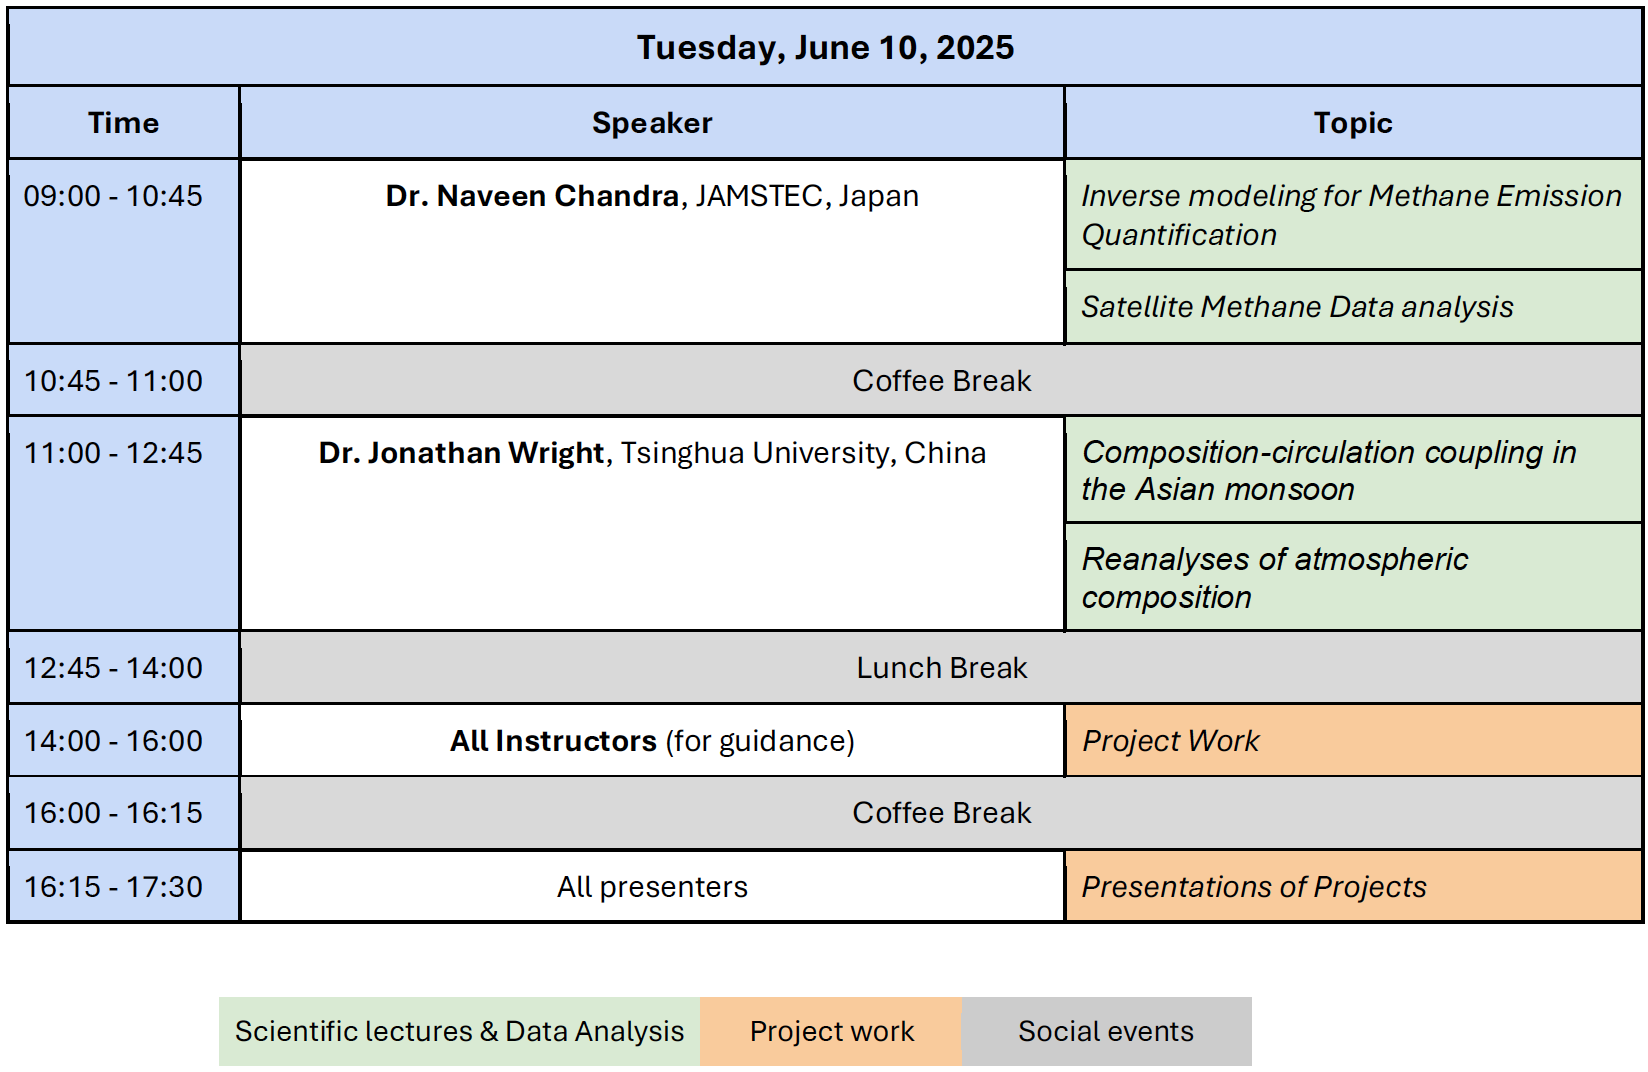
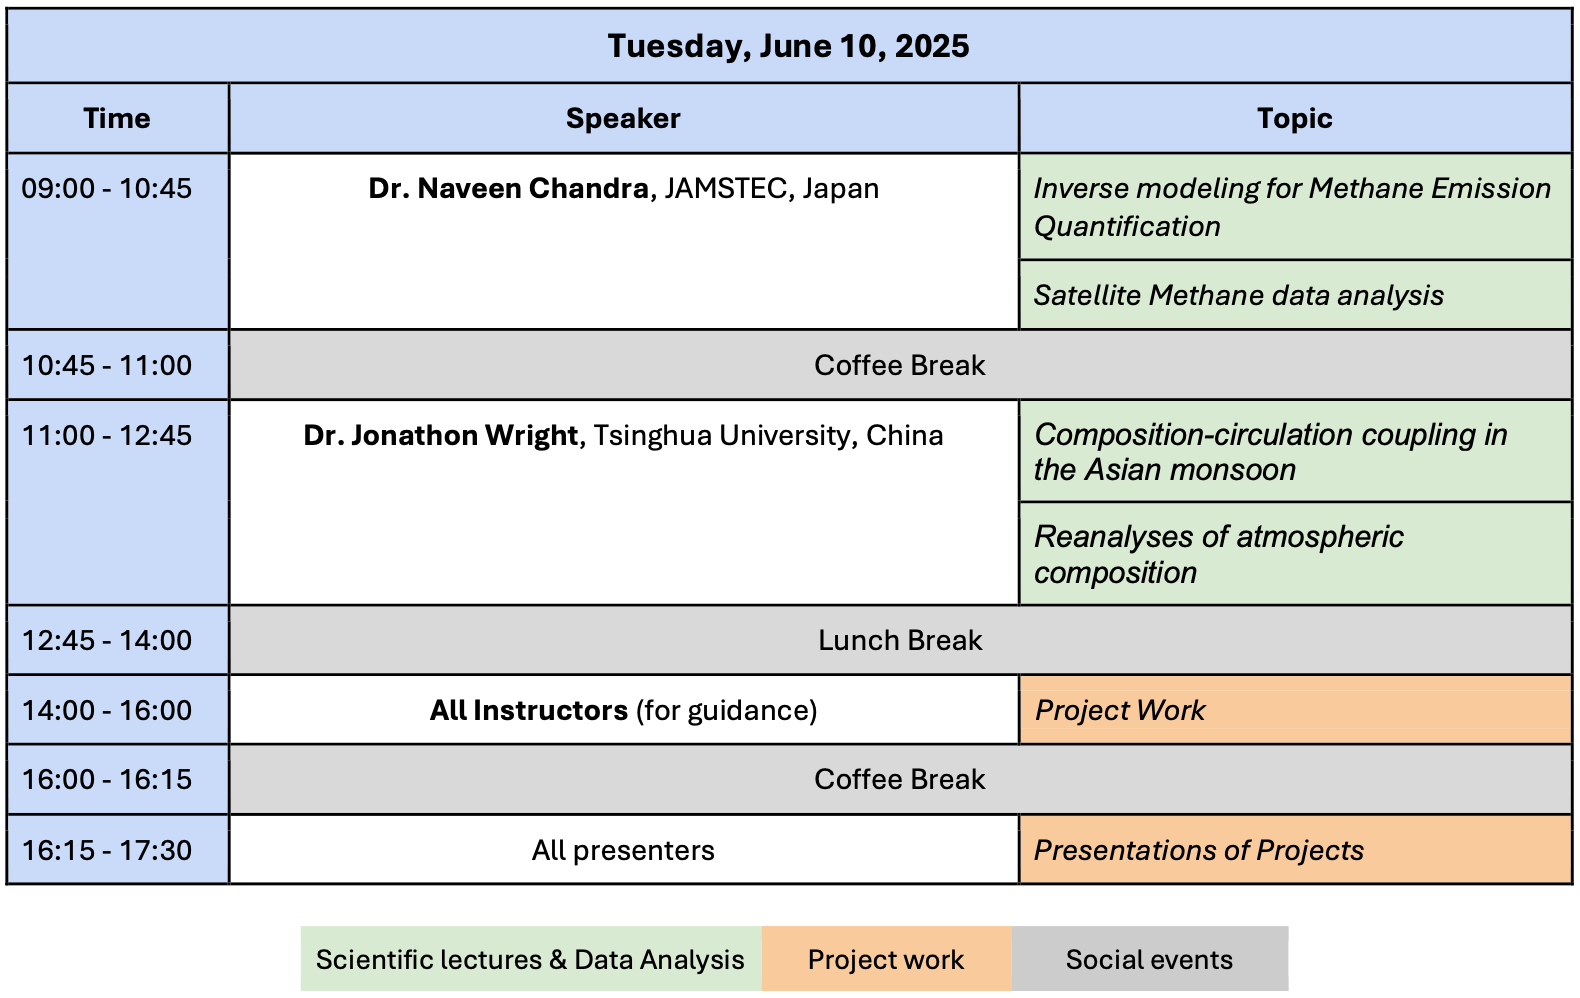
Corrected Jonathon Spelling

Changed region(s): [[0.0, 0.0, 1.0, 1.0]]

diff --git a/README.md b/README.md
@@ -27,7 +27,7 @@ Welcome to the 6th ACAM Training School! Building on the success of previous tra
 - **When**: 9-10 June 2025  
 - **Where**: Bali, Indonesia 
 - **Organizers**: Dr. Piyushkumar Patel (SRON, Netherlands), Dr. Ritesh Gautam (EDF, USA), Dr. Puji Lestari (ITB, Indonesia)
-- **Intructors**: Dr. Cathy Clerbaux (CNES, France), Dr. Jonathan Wright (Tsinghua University, China), Dr. Naveen Chandra (JAMSTEC, Japan), Dr. Piyushkumar Patel (SRON, Netherlands)
+- **Intructors**: Dr. Cathy Clerbaux (CNES, France), Dr. Jonathon Wright (Tsinghua University, China), Dr. Naveen Chandra (JAMSTEC, Japan), Dr. Piyushkumar Patel (SRON, Netherlands)
 - **Focus**: Atmospheric composition analysis using satellite data and models, with practical exercises and project work. 
 <!-- - **Led by**: Dr. Ritesh Gautam, Dr. Piyushkumar Patel   -->
 
@@ -99,7 +99,7 @@ Training materials will be made available to participants through this GitHub re
 | Dr. Piyushkumar Patel | Aerosol-Cloud Remote Sensing | [Materials/Note](https://github.com/PiyushPatel/ACAM_2025_Materials/aerosol) | [Scripts & Data](https://github.com/PiyushPatel/ACAM_2025_Scripts/aerosol) |
 | Dr. Cathy Clerbaux | Atmospheric Composition | [Materials/Note](https://github.com/CathyClerbaux/IASI_Materials) | [Scripts & Data](https://github.com/CathyClerbaux/IASI_Scripts) |
 | Dr. Naveen Chandra | Methane Emission Modeling | [Materials/Note](https://github.com/NaveenChandra/Methane_Materials) | [Scripts & Data](https://github.com/NaveenChandra/Methane_Analysis) |
-| Dr. Jonathan Wright | Asian Monsoon Dynamics | [Materials/Note](https://github.com/JonathanWright/Monsoon_Materials) | [Scripts & Data](https://github.com/JonathanWright/Composition_Circulation) |
+| Dr. Jonathon Wright | Asian Monsoon Dynamics | [Materials/Note](https://github.com/JonathonWright/Monsoon_Materials) | [Scripts & Data](https://github.com/JonathonWright/Composition_Circulation) |
 
 ### Additional Resources
 
@@ -111,8 +111,8 @@ Training materials will be made available to participants through this GitHub re
 ## Contributors
 
 This repository is maintained by:
-- Dr. Piyushkumar Patel ([p.patel@sron.nl](mailto:p.patel@sron.nl)) / [piyushether@gmail.com](mailto:piyushether@gmail.com))
-- Jonathan Wright ([jonathan.wright@tsinghua.edu.cn](mailto:jonathan.wright@tsinghua.edu.cn))
+- Dr. Piyushkumar Patel [piyushether@gmail.com](mailto:piyushether@gmail.com))
+- Jonathon Wright ([jonathonswright@protonmail.com](mailto:jonathonswright@protonmail.com))
 
 ## Contact
 
